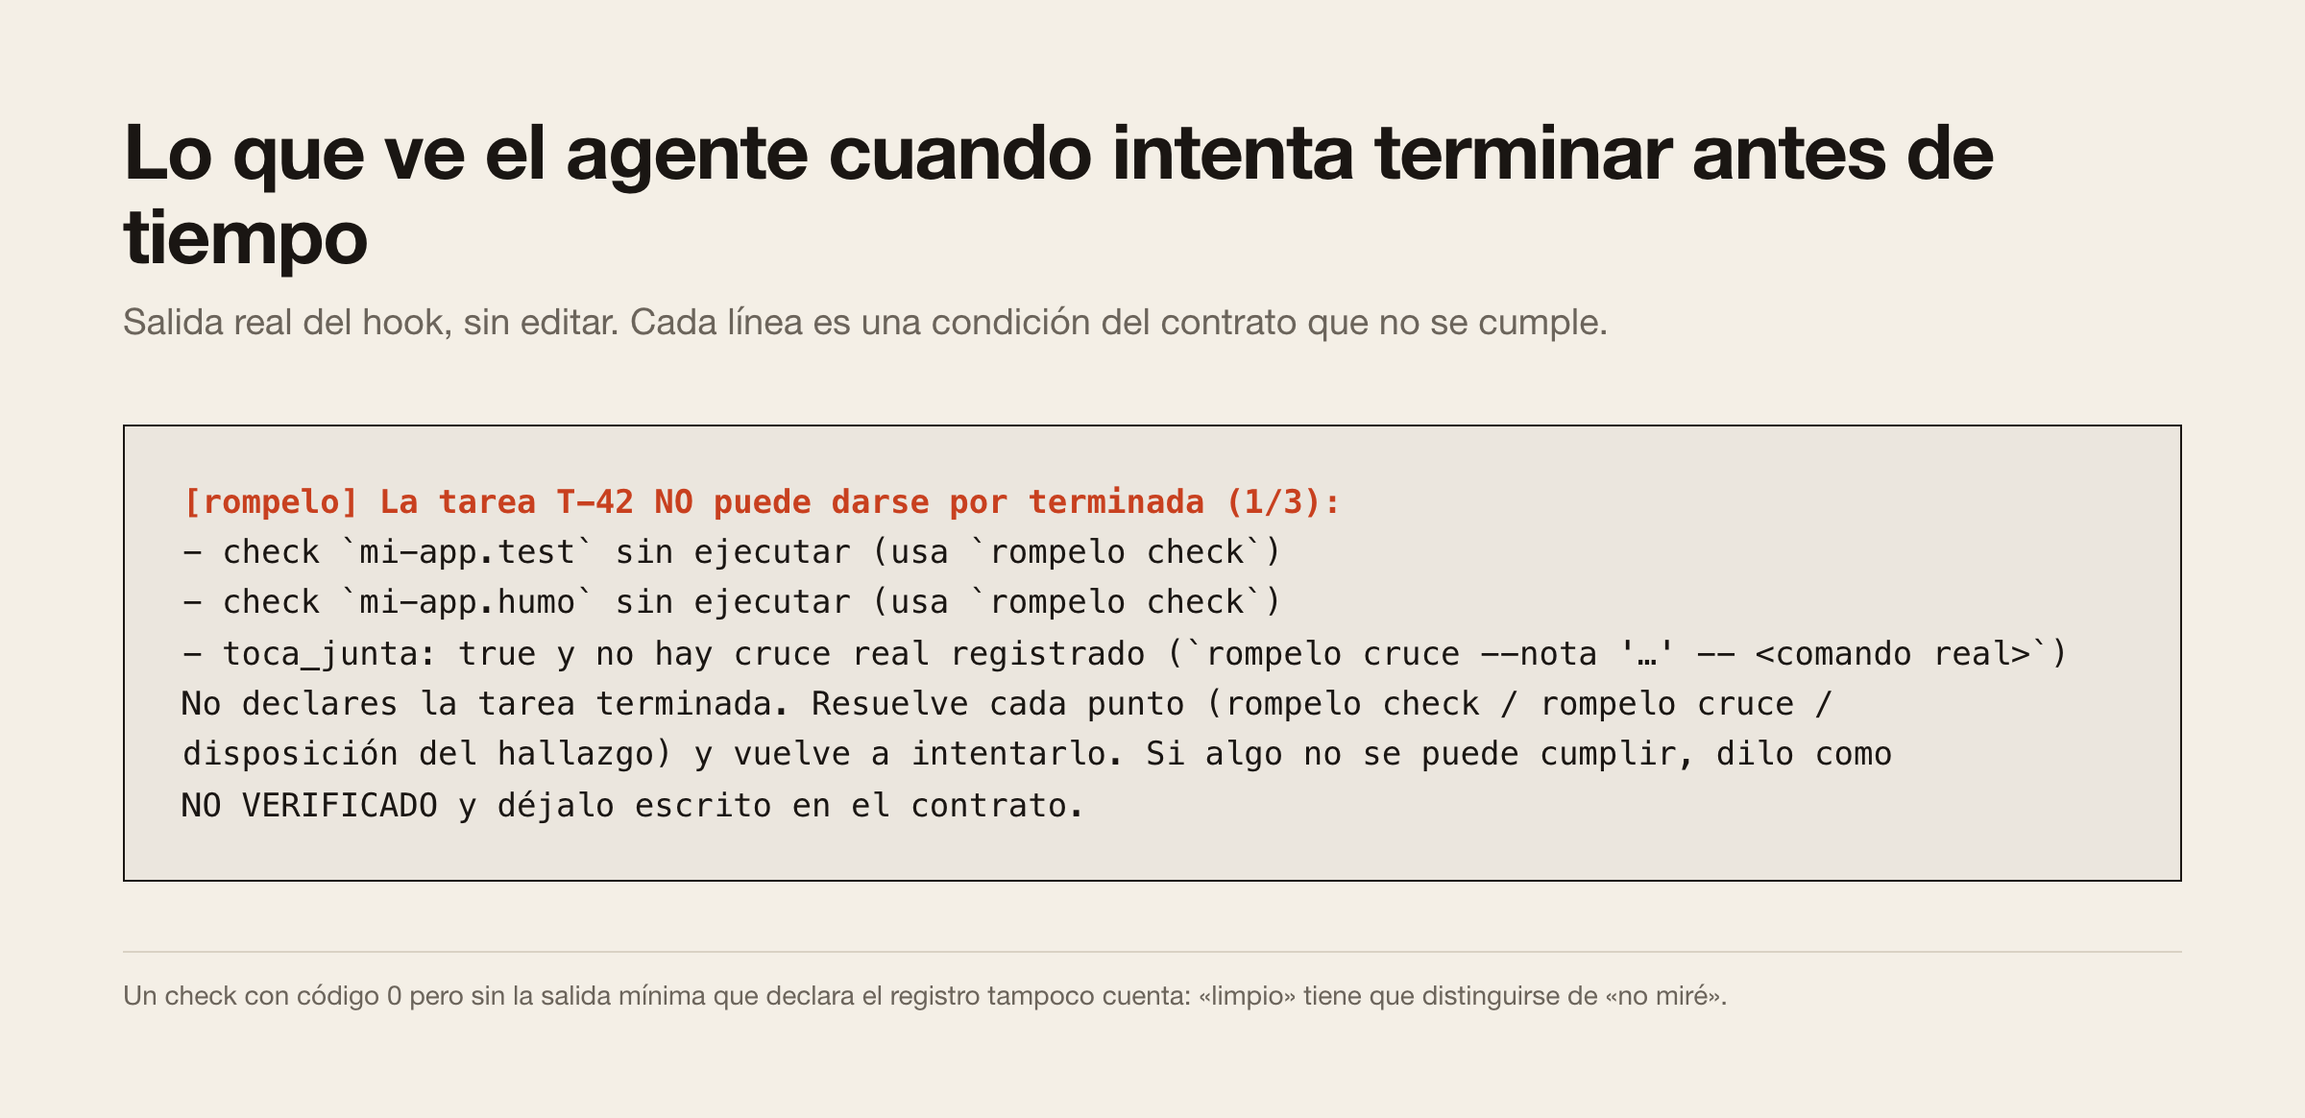
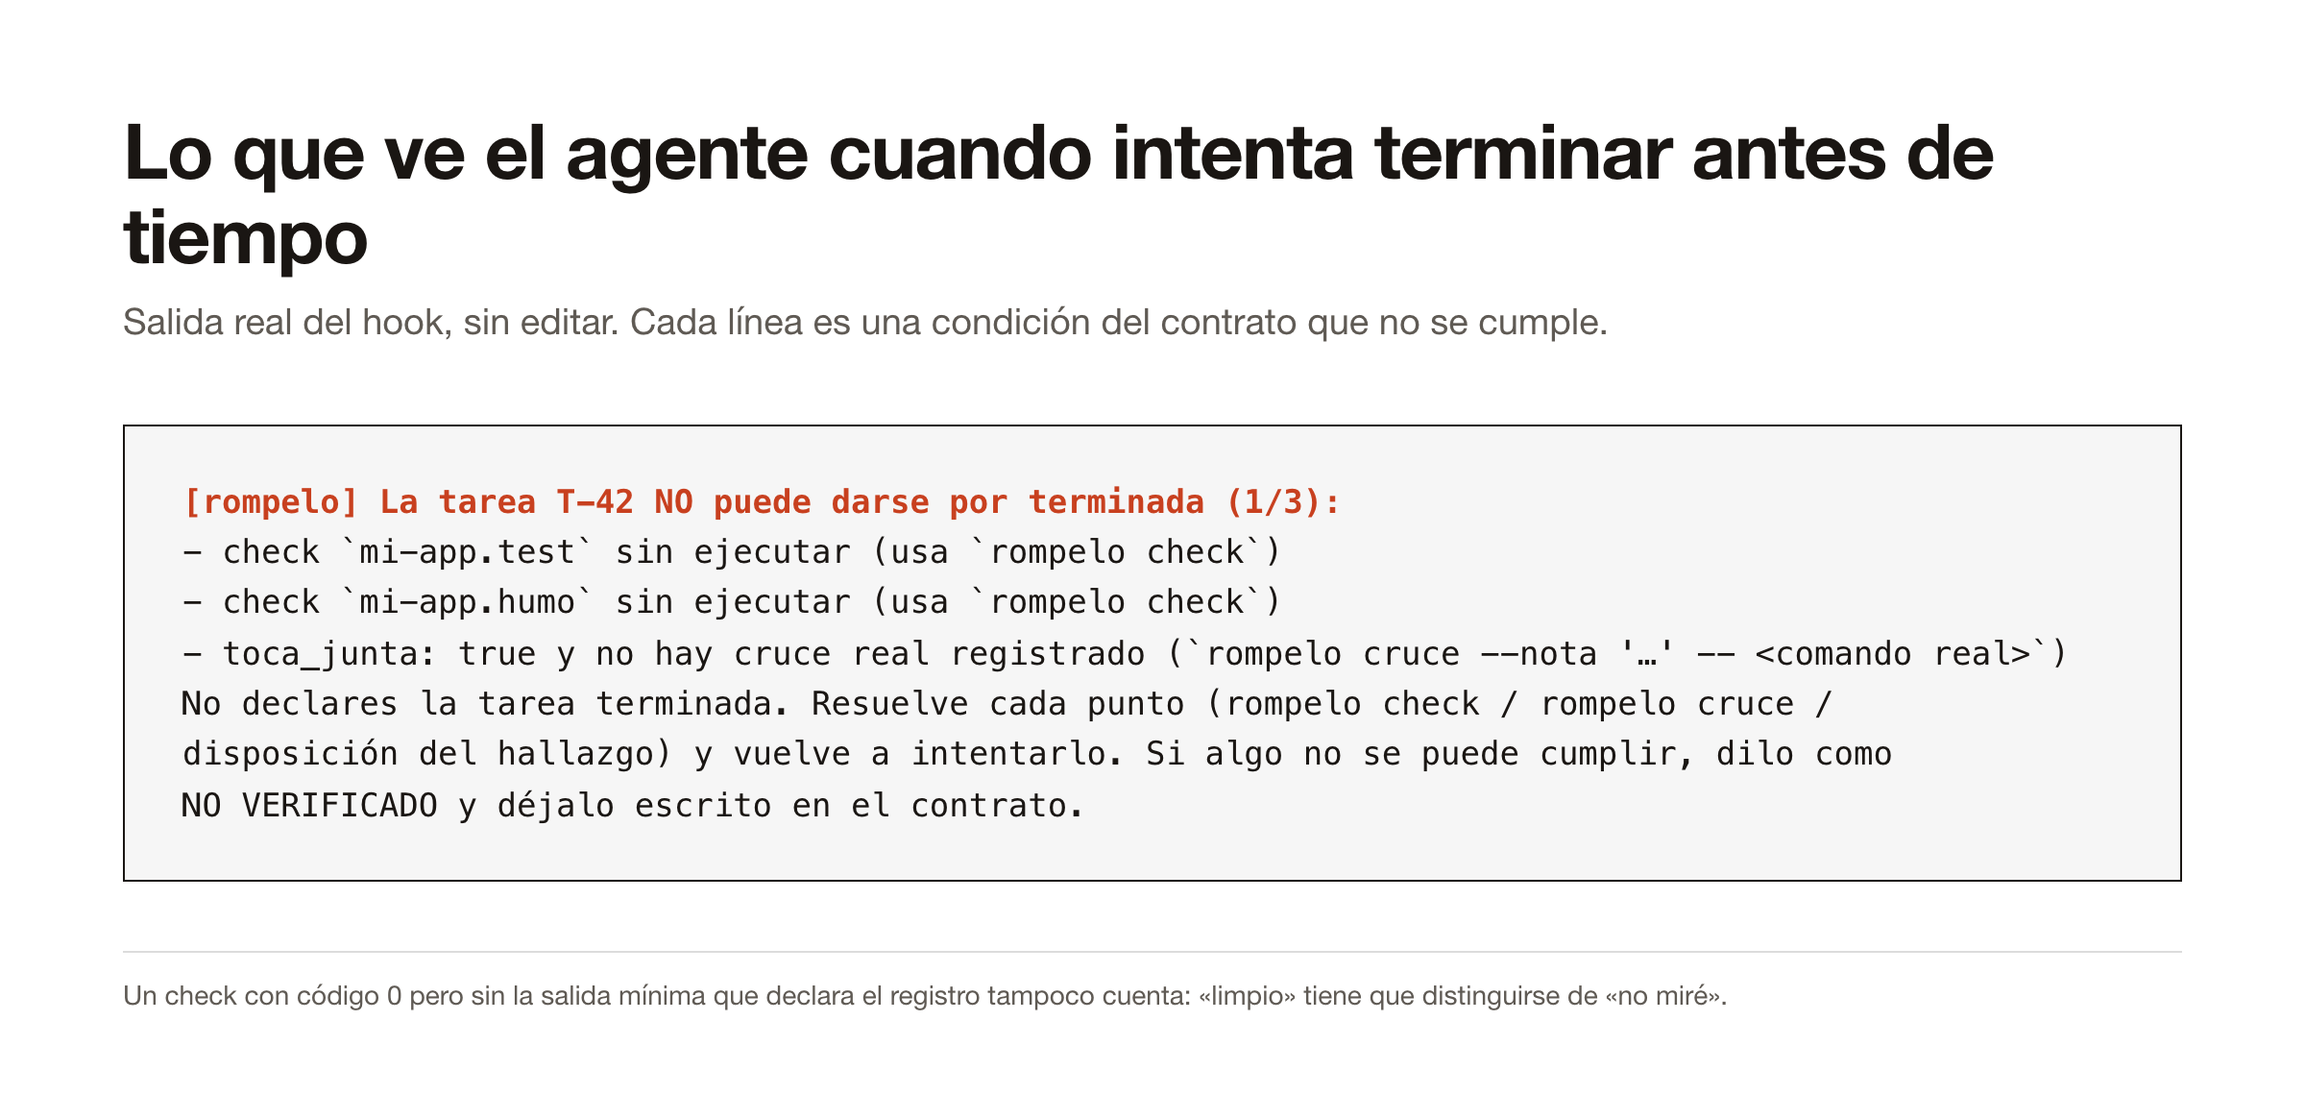
imágenes en blanco, salida del hook en inglés y cifras de hoy (48 incidentes, 193 casos); detector de slop a cero

diff --git a/docs/img/src/corpus.html b/docs/img/src/corpus.html
@@ -1,5 +1,5 @@
 <html><head><meta charset="utf-8"><style>
-:root{--paper:#f4efe6;--ink:#1a1613;--muted:#6b645b;--rule:#d9d1c4;--red:#c8401f;--green:#2f6b3a;--mono:"SF Mono",Menlo,Consolas,monospace;--sans:"Helvetica Neue",Helvetica,Arial,sans-serif}
+:root{--paper:#ffffff;--ink:#1a1613;--muted:#5f5a54;--rule:#dcdcdc;--red:#c8401f;--green:#2f6b3a;--mono:"SF Mono",Menlo,Consolas,monospace;--sans:"Helvetica Neue",Helvetica,Arial,sans-serif}
 *{box-sizing:border-box}body{margin:0;background:var(--paper);color:var(--ink);font-family:var(--sans);-webkit-font-smoothing:antialiased}
 .wrap{padding:56px 64px}
 h1{font-size:40px;line-height:1.1;letter-spacing:-.02em;margin:0 0 10px;font-weight:700}
@@ -14,16 +14,16 @@ h1{font-size:40px;line-height:1.1;letter-spacing:-.02em;margin:0 0 10px;font-wei
 .note{font-size:15px;color:var(--muted);margin-top:8px}
 </style></head><body><div class="wrap">
 <h1>La mayoría de los fallos reales tenían las pruebas en verde</h1>
-<p class="sub">36 incidentes de código escrito por agentes (agosto y septiembre de 2026), clasificados por lo que era visible cuando el agente dijo «hecho».</p>
+<p class="sub">48 incidentes de código escrito por agentes (agosto y septiembre de 2026), clasificados por lo que era visible cuando el agente dijo «hecho».</p>
 <div class="rows">
- <div class="row hi"><div class="lab"><b>I</b>instrumento ciego</div><div><div class="bar" style="width:100%"></div></div><div class="val">16</div></div>
- <div class="row"><div class="lab"><b>S</b>señal al parar</div><div><div class="bar" style="width:38%"></div></div><div class="val">6</div></div>
- <div class="row"><div class="lab"><b>C</b>contexto o ámbito</div><div><div class="bar" style="width:25%"></div></div><div class="val">4</div></div>
- <div class="row"><div class="lab"><b>M</b>mixto</div><div><div class="bar" style="width:19%"></div></div><div class="val">3</div></div>
- <div class="row"><div class="lab"><b>T</b>al ejecutar la herramienta</div><div><div class="bar" style="width:19%"></div></div><div class="val">3</div></div>
- <div class="row"><div class="lab"><b>A</b>auditoría</div><div><div class="bar" style="width:13%"></div></div><div class="val">2</div></div>
- <div class="row"><div class="lab"><b>R</b>solo en producción, días después</div><div><div class="bar" style="width:13%"></div></div><div class="val">2</div></div>
+ <div class="row hi"><div class="lab"><b>I</b>instrumento ciego</div><div><div class="bar" style="width:100%"></div></div><div class="val">27</div></div>
+ <div class="row"><div class="lab"><b>S</b>señal al parar</div><div><div class="bar" style="width:22%"></div></div><div class="val">6</div></div>
+ <div class="row"><div class="lab"><b>C</b>contexto o ámbito</div><div><div class="bar" style="width:19%"></div></div><div class="val">5</div></div>
+ <div class="row"><div class="lab"><b>M</b>mixto</div><div><div class="bar" style="width:11%"></div></div><div class="val">3</div></div>
+ <div class="row"><div class="lab"><b>T</b>al ejecutar la herramienta</div><div><div class="bar" style="width:11%"></div></div><div class="val">3</div></div>
+ <div class="row"><div class="lab"><b>A</b>auditoría</div><div><div class="bar" style="width:7%"></div></div><div class="val">2</div></div>
+ <div class="row"><div class="lab"><b>R</b>solo en producción, días después</div><div><div class="bar" style="width:7%"></div></div><div class="val">2</div></div>
 </div>
 <p class="note"><span style="color:var(--red);font-weight:700">Instrumento ciego</span>: la comprobación no podía fallar. Un validador sobre el artefacto equivocado, un guardián que muere y sale con el código de «hallazgo», un 0 después de un timeout, «no tests» leído como cero fallos, una mutación que nunca se aplicó.</p>
-<div class="foot">Fuente: corpus/TABLA.md, generado desde incidents/*.yaml. Veinte incidentes propios y dieciséis relatados por otras sesiones, no reproducidos.</div>
+<div class="foot">Fuente: corpus/TABLA.md, generado desde incidents/*.yaml. Parte propios, parte relatados por otras sesiones y no reproducidos aquí; la tabla dice cuáles.</div>
 </div></body></html>

diff --git a/docs/img/src/en-corpus.html b/docs/img/src/en-corpus.html
@@ -1,5 +1,5 @@
 <html><head><meta charset="utf-8"><style>
-:root{--paper:#f4efe6;--ink:#1a1613;--muted:#6b645b;--rule:#d9d1c4;--red:#c8401f;--green:#2f6b3a;--mono:"SF Mono",Menlo,Consolas,monospace;--sans:"Helvetica Neue",Helvetica,Arial,sans-serif}
+:root{--paper:#ffffff;--ink:#1a1613;--muted:#5f5a54;--rule:#dcdcdc;--red:#c8401f;--green:#2f6b3a;--mono:"SF Mono",Menlo,Consolas,monospace;--sans:"Helvetica Neue",Helvetica,Arial,sans-serif}
 *{box-sizing:border-box}body{margin:0;background:var(--paper);color:var(--ink);font-family:var(--sans);-webkit-font-smoothing:antialiased}
 .wrap{padding:56px 64px}
 h1{font-size:40px;line-height:1.1;letter-spacing:-.02em;margin:0 0 10px;font-weight:700}
@@ -14,16 +14,16 @@ h1{font-size:40px;line-height:1.1;letter-spacing:-.02em;margin:0 0 10px;font-wei
 .note{font-size:15px;color:var(--muted);margin-top:8px}
 </style></head><body><div class="wrap">
 <h1>Most real failures had green tests</h1>
-<p class="sub">36 incidents from agent-written code (August and September 2026), classified by what was visible when the agent said “done”.</p>
+<p class="sub">48 incidents from agent-written code (August and September 2026), classified by what was visible when the agent said “done”.</p>
 <div class="rows">
- <div class="row hi"><div class="lab"><b>I</b>blind instrument</div><div><div class="bar" style="width:100%"></div></div><div class="val">16</div></div>
- <div class="row"><div class="lab"><b>S</b>signal at Stop</div><div><div class="bar" style="width:38%"></div></div><div class="val">6</div></div>
- <div class="row"><div class="lab"><b>C</b>context or scope</div><div><div class="bar" style="width:25%"></div></div><div class="val">4</div></div>
- <div class="row"><div class="lab"><b>M</b>mixed</div><div><div class="bar" style="width:19%"></div></div><div class="val">3</div></div>
- <div class="row"><div class="lab"><b>T</b>at tool time</div><div><div class="bar" style="width:19%"></div></div><div class="val">3</div></div>
- <div class="row"><div class="lab"><b>A</b>audit</div><div><div class="bar" style="width:13%"></div></div><div class="val">2</div></div>
- <div class="row"><div class="lab"><b>R</b>only in production, days later</div><div><div class="bar" style="width:13%"></div></div><div class="val">2</div></div>
+ <div class="row hi"><div class="lab"><b>I</b>blind instrument</div><div><div class="bar" style="width:100%"></div></div><div class="val">27</div></div>
+ <div class="row"><div class="lab"><b>S</b>signal at Stop</div><div><div class="bar" style="width:22%"></div></div><div class="val">6</div></div>
+ <div class="row"><div class="lab"><b>C</b>context or scope</div><div><div class="bar" style="width:19%"></div></div><div class="val">5</div></div>
+ <div class="row"><div class="lab"><b>M</b>mixed</div><div><div class="bar" style="width:11%"></div></div><div class="val">3</div></div>
+ <div class="row"><div class="lab"><b>T</b>at tool time</div><div><div class="bar" style="width:11%"></div></div><div class="val">3</div></div>
+ <div class="row"><div class="lab"><b>A</b>audit</div><div><div class="bar" style="width:7%"></div></div><div class="val">2</div></div>
+ <div class="row"><div class="lab"><b>R</b>only in production, days later</div><div><div class="bar" style="width:7%"></div></div><div class="val">2</div></div>
 </div>
 <p class="note"><span style="color:var(--red);font-weight:700">Blind instrument</span>: the check could not fail. A validator on the wrong artifact, a guard that crashes and exits with the “finding” code, a 0 after a timeout, “no tests” read as zero failures, a mutation that never applied.</p>
-<div class="foot">Source: corpus/TABLA.md, generated from incidents/*.yaml. Twenty first-hand incidents and sixteen reported by other sessions, not reproduced.</div>
+<div class="foot">Source: corpus/TABLA.md, generated from incidents/*.yaml. Part first-hand, part reported by other sessions and not reproduced here; the table says which.</div>
 </div></body></html>

diff --git a/docs/img/src/en-bloqueo.html b/docs/img/src/en-bloqueo.html
@@ -1,5 +1,5 @@
 <html><head><meta charset="utf-8"><style>
-:root{--paper:#f4efe6;--ink:#1a1613;--muted:#6b645b;--rule:#d9d1c4;--red:#c8401f;--green:#2f6b3a;--mono:"SF Mono",Menlo,Consolas,monospace;--sans:"Helvetica Neue",Helvetica,Arial,sans-serif}
+:root{--paper:#ffffff;--ink:#1a1613;--muted:#5f5a54;--rule:#dcdcdc;--red:#c8401f;--green:#2f6b3a;--mono:"SF Mono",Menlo,Consolas,monospace;--sans:"Helvetica Neue",Helvetica,Arial,sans-serif}
 *{box-sizing:border-box}body{margin:0;background:var(--paper);color:var(--ink);font-family:var(--sans);-webkit-font-smoothing:antialiased}
 .wrap{padding:56px 64px}
 h1{font-size:40px;line-height:1.1;letter-spacing:-.02em;margin:0 0 10px;font-weight:700}
@@ -7,17 +7,17 @@ h1{font-size:40px;line-height:1.1;letter-spacing:-.02em;margin:0 0 10px;font-wei
 .mono{font-family:var(--mono)}
 .foot{margin-top:36px;font-size:14px;color:var(--muted);border-top:1px solid var(--rule);padding-top:14px}
 </style><style>
-pre{font-family:var(--mono);font-size:17px;line-height:1.55;margin:0;padding:26px 30px;border:1px solid var(--ink);background:rgba(26,22,19,.04);white-space:pre-wrap}
+pre{font-family:var(--mono);font-size:17px;line-height:1.55;margin:0;padding:26px 30px;border:1px solid var(--ink);background:#f6f6f6;white-space:pre-wrap}
 .k{color:var(--red);font-weight:700}
 </style></head><body><div class="wrap">
 <h1>What the agent sees when it tries to finish too early</h1>
-<p class="sub">Real hook output, unedited. Each line is a contract condition that is not met.</p>
-<pre><span class="k">[rompelo] La tarea T-42 NO puede darse por terminada (1/3):</span>
-- check `mi-app.test` sin ejecutar (usa `rompelo check`)
-- check `mi-app.humo` sin ejecutar (usa `rompelo check`)
-- toca_junta: true y no hay cruce real registrado (`rompelo cruce --nota '…' -- &lt;comando real&gt;`)
-No declares la tarea terminada. Resuelve cada punto (rompelo check / rompelo cruce /
-disposición del hallazgo) y vuelve a intentarlo. Si algo no se puede cumplir, dilo como
-NO VERIFICADO y déjalo escrito en el contrato.</pre>
+<p class="sub">Real hook output (<code>ROMPELO_LANG=en</code>), unedited. Each line is a contract condition that is not met.</p>
+<pre><span class="k">[rompelo] Task T-42 cannot be marked done (1/3):</span>
+- check `mi-app.test` not run (use `rompelo check`)
+- check `mi-app.humo` not run (use `rompelo check`)
+- toca_junta: true and no real crossing recorded (`rompelo cruce --nota '…' -- &lt;real command&gt;`)
+Do not declare the task done. Resolve each point (rompelo check / rompelo cruce / finding
+disposition) and try again. If something cannot be met, say so as NOT VERIFIED and write it
+in the contract.</pre>
 <div class="foot">A check that exits 0 without the minimum output declared in the registry does not count either: “clean” must be distinguishable from “did not look”.</div>
 </div></body></html>

diff --git a/docs/img/src/en-rojo-primero.html b/docs/img/src/en-rojo-primero.html
@@ -1,5 +1,5 @@
 <html><head><meta charset="utf-8"><style>
-:root{--paper:#f4efe6;--ink:#1a1613;--muted:#6b645b;--rule:#d9d1c4;--red:#c8401f;--green:#2f6b3a;--mono:"SF Mono",Menlo,Consolas,monospace;--sans:"Helvetica Neue",Helvetica,Arial,sans-serif}
+:root{--paper:#ffffff;--ink:#1a1613;--muted:#5f5a54;--rule:#dcdcdc;--red:#c8401f;--green:#2f6b3a;--mono:"SF Mono",Menlo,Consolas,monospace;--sans:"Helvetica Neue",Helvetica,Arial,sans-serif}
 *{box-sizing:border-box}body{margin:0;background:var(--paper);color:var(--ink);font-family:var(--sans);-webkit-font-smoothing:antialiased}
 .wrap{padding:56px 64px}
 h1{font-size:40px;line-height:1.1;letter-spacing:-.02em;margin:0 0 10px;font-weight:700}
@@ -13,11 +13,11 @@ h1{font-size:40px;line-height:1.1;letter-spacing:-.02em;margin:0 0 10px;font-wei
 .s .d{font-size:17px;line-height:1.45}
 </style></head><body><div class="wrap">
 <h1>A green you have never seen red is not information</h1>
-<p class="sub">Every rompelo condition is accepted only after this cycle, and the test battery repeats it on every change: 77 cases.</p>
+<p class="sub">Every rompelo condition is accepted only after this cycle, and the test battery repeats it on every change: 193 cases in the gate battery, 100 in the observer's.</p>
 <div class="seq">
  <div class="s g"><div class="h">1 · Start from green</div><div class="d">A good task with a complete contract, and the hook lets it stop. Without this, the red that follows says nothing: it may have been broken already.</div></div>
  <div class="s red"><div class="h">2 · Confirmed mutation → red</div><div class="d">The contract is broken on purpose, and it is confirmed that the mutation <em>happened</em> and creates the fault being hunted. Then the hook must block with that exact reason.</div></div>
  <div class="s g"><div class="h">3 · Undone → green again</div><div class="d">The mutation is removed and the hook goes silent again. A guard that always shouts gets switched off, and then it protects nothing.</div></div>
 </div>
-<div class="foot">The same is demanded of the user's checks: a command that exits 0 without producing output does not count, and the next module asks every check for a positive control, a known-bad input it must detect before its green is worth anything.</div>
+<div class="foot">The same is demanded of the user's checks: a command that exits 0 without producing output does not count, and a check may declare a positive control: a known-bad input it must detect before its green is worth anything.</div>
 </div></body></html>

diff --git a/docs/img/src/rojo-primero.html b/docs/img/src/rojo-primero.html
@@ -1,5 +1,5 @@
 <html><head><meta charset="utf-8"><style>
-:root{--paper:#f4efe6;--ink:#1a1613;--muted:#6b645b;--rule:#d9d1c4;--red:#c8401f;--green:#2f6b3a;--mono:"SF Mono",Menlo,Consolas,monospace;--sans:"Helvetica Neue",Helvetica,Arial,sans-serif}
+:root{--paper:#ffffff;--ink:#1a1613;--muted:#5f5a54;--rule:#dcdcdc;--red:#c8401f;--green:#2f6b3a;--mono:"SF Mono",Menlo,Consolas,monospace;--sans:"Helvetica Neue",Helvetica,Arial,sans-serif}
 *{box-sizing:border-box}body{margin:0;background:var(--paper);color:var(--ink);font-family:var(--sans);-webkit-font-smoothing:antialiased}
 .wrap{padding:56px 64px}
 h1{font-size:40px;line-height:1.1;letter-spacing:-.02em;margin:0 0 10px;font-weight:700}
@@ -13,7 +13,7 @@ h1{font-size:40px;line-height:1.1;letter-spacing:-.02em;margin:0 0 10px;font-wei
 .s .d{font-size:17px;line-height:1.45}
 </style></head><body><div class="wrap">
 <h1>Un verde que nunca has visto rojo no es información</h1>
-<p class="sub">Cada condición de rompelo se acepta solo después de este ciclo, y la batería lo repite en cada cambio: 77 casos.</p>
+<p class="sub">Cada condición de rompelo se acepta solo después de este ciclo, y la batería lo repite en cada cambio: 193 casos en la batería de la puerta y 100 en la del observador.</p>
 <div class="seq">
  <div class="s g"><div class="h">1 · Verde de partida</div><div class="d">Una tarea buena, con contrato completo, y el hook deja parar. Sin esto, el rojo de después no dice nada: puede que ya estuviera roto.</div></div>
  <div class="s red"><div class="h">2 · Mutación confirmada → rojo</div><div class="d">Se rompe el contrato a propósito y se comprueba que la mutación <em>ocurrió</em> y que crea el fallo buscado. Entonces el hook tiene que bloquear con ese motivo exacto.</div></div>

diff --git a/docs/img/src/bloqueo.html b/docs/img/src/bloqueo.html
@@ -1,5 +1,5 @@
 <html><head><meta charset="utf-8"><style>
-:root{--paper:#f4efe6;--ink:#1a1613;--muted:#6b645b;--rule:#d9d1c4;--red:#c8401f;--green:#2f6b3a;--mono:"SF Mono",Menlo,Consolas,monospace;--sans:"Helvetica Neue",Helvetica,Arial,sans-serif}
+:root{--paper:#ffffff;--ink:#1a1613;--muted:#5f5a54;--rule:#dcdcdc;--red:#c8401f;--green:#2f6b3a;--mono:"SF Mono",Menlo,Consolas,monospace;--sans:"Helvetica Neue",Helvetica,Arial,sans-serif}
 *{box-sizing:border-box}body{margin:0;background:var(--paper);color:var(--ink);font-family:var(--sans);-webkit-font-smoothing:antialiased}
 .wrap{padding:56px 64px}
 h1{font-size:40px;line-height:1.1;letter-spacing:-.02em;margin:0 0 10px;font-weight:700}
@@ -7,7 +7,7 @@ h1{font-size:40px;line-height:1.1;letter-spacing:-.02em;margin:0 0 10px;font-wei
 .mono{font-family:var(--mono)}
 .foot{margin-top:36px;font-size:14px;color:var(--muted);border-top:1px solid var(--rule);padding-top:14px}
 </style><style>
-pre{font-family:var(--mono);font-size:17px;line-height:1.55;margin:0;padding:26px 30px;border:1px solid var(--ink);background:rgba(26,22,19,.04);white-space:pre-wrap}
+pre{font-family:var(--mono);font-size:17px;line-height:1.55;margin:0;padding:26px 30px;border:1px solid var(--ink);background:#f6f6f6;white-space:pre-wrap}
 .k{color:var(--red);font-weight:700}
 </style></head><body><div class="wrap">
 <h1>Lo que ve el agente cuando intenta terminar antes de tiempo</h1>

diff --git a/docs/img/src/como-funciona.html b/docs/img/src/como-funciona.html
@@ -1,5 +1,5 @@
 <html><head><meta charset="utf-8"><style>
-:root{--paper:#f4efe6;--ink:#1a1613;--muted:#6b645b;--rule:#d9d1c4;--red:#c8401f;--green:#2f6b3a;--mono:"SF Mono",Menlo,Consolas,monospace;--sans:"Helvetica Neue",Helvetica,Arial,sans-serif}
+:root{--paper:#ffffff;--ink:#1a1613;--muted:#5f5a54;--rule:#dcdcdc;--red:#c8401f;--green:#2f6b3a;--mono:"SF Mono",Menlo,Consolas,monospace;--sans:"Helvetica Neue",Helvetica,Arial,sans-serif}
 *{box-sizing:border-box}body{margin:0;background:var(--paper);color:var(--ink);font-family:var(--sans);-webkit-font-smoothing:antialiased}
 .wrap{padding:56px 64px}
 h1{font-size:40px;line-height:1.1;letter-spacing:-.02em;margin:0 0 10px;font-weight:700}

diff --git a/docs/img/src/en-como-funciona.html b/docs/img/src/en-como-funciona.html
@@ -1,5 +1,5 @@
 <html><head><meta charset="utf-8"><style>
-:root{--paper:#f4efe6;--ink:#1a1613;--muted:#6b645b;--rule:#d9d1c4;--red:#c8401f;--green:#2f6b3a;--mono:"SF Mono",Menlo,Consolas,monospace;--sans:"Helvetica Neue",Helvetica,Arial,sans-serif}
+:root{--paper:#ffffff;--ink:#1a1613;--muted:#5f5a54;--rule:#dcdcdc;--red:#c8401f;--green:#2f6b3a;--mono:"SF Mono",Menlo,Consolas,monospace;--sans:"Helvetica Neue",Helvetica,Arial,sans-serif}
 *{box-sizing:border-box}body{margin:0;background:var(--paper);color:var(--ink);font-family:var(--sans);-webkit-font-smoothing:antialiased}
 .wrap{padding:56px 64px}
 h1{font-size:40px;line-height:1.1;letter-spacing:-.02em;margin:0 0 10px;font-weight:700}
